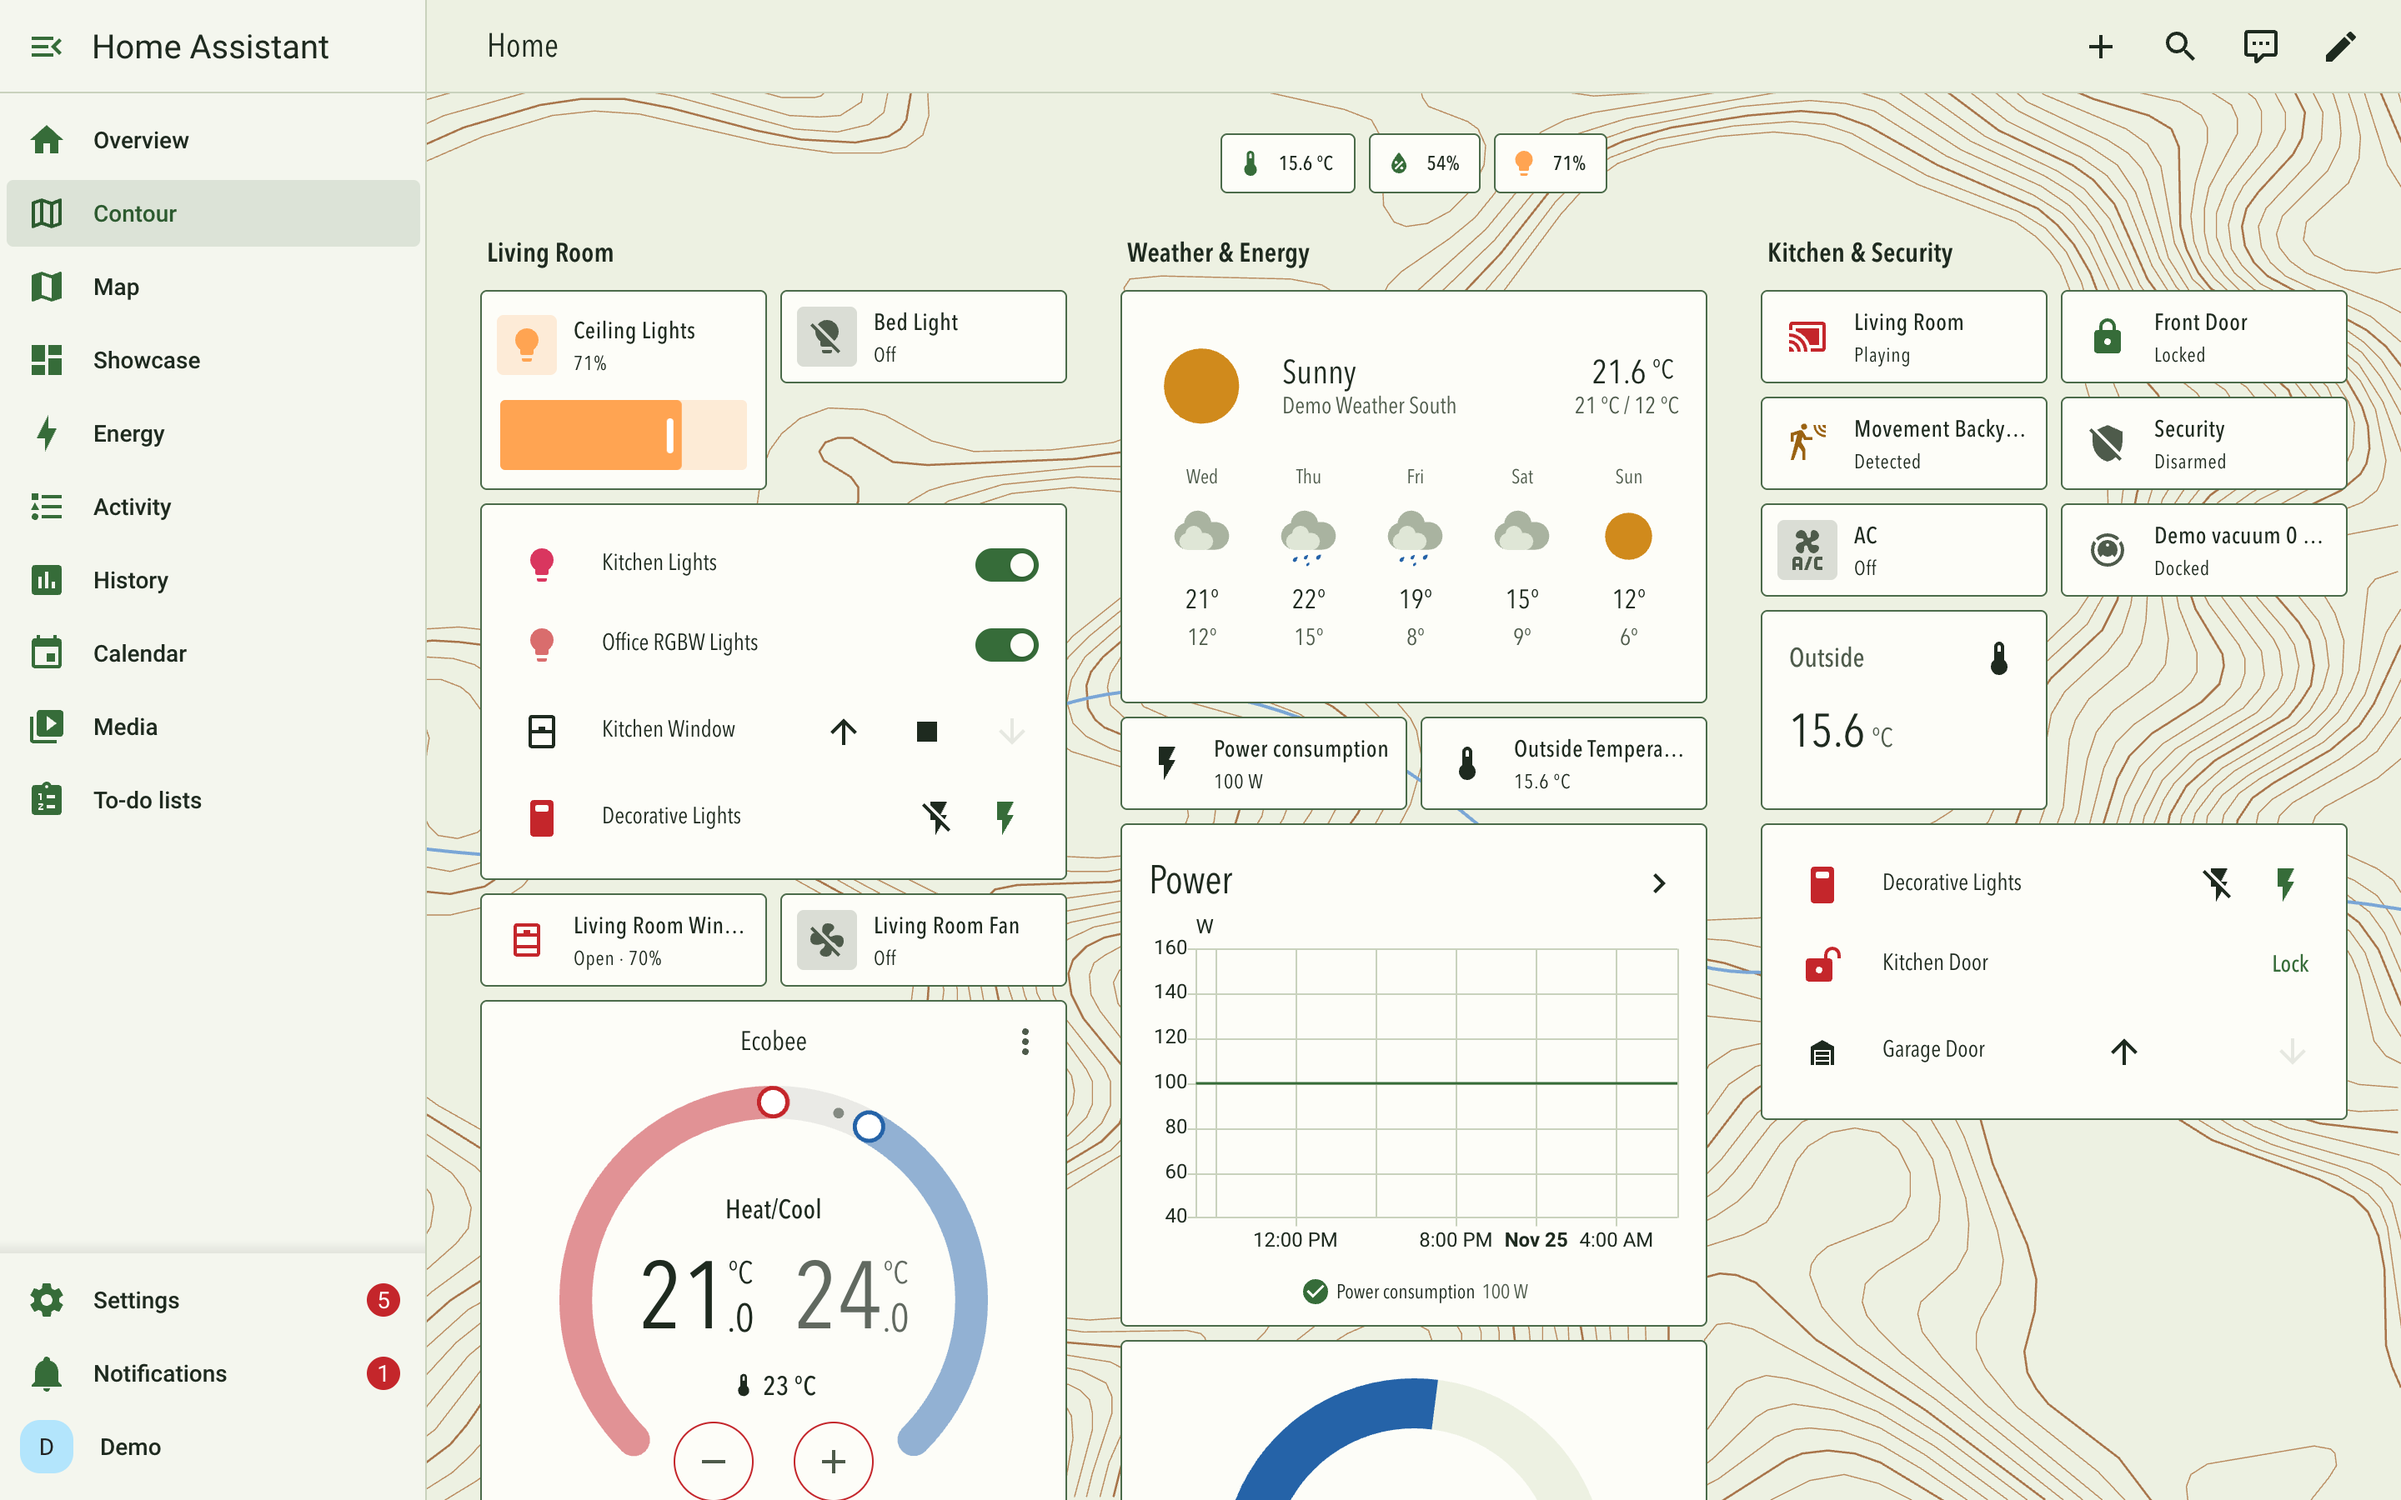
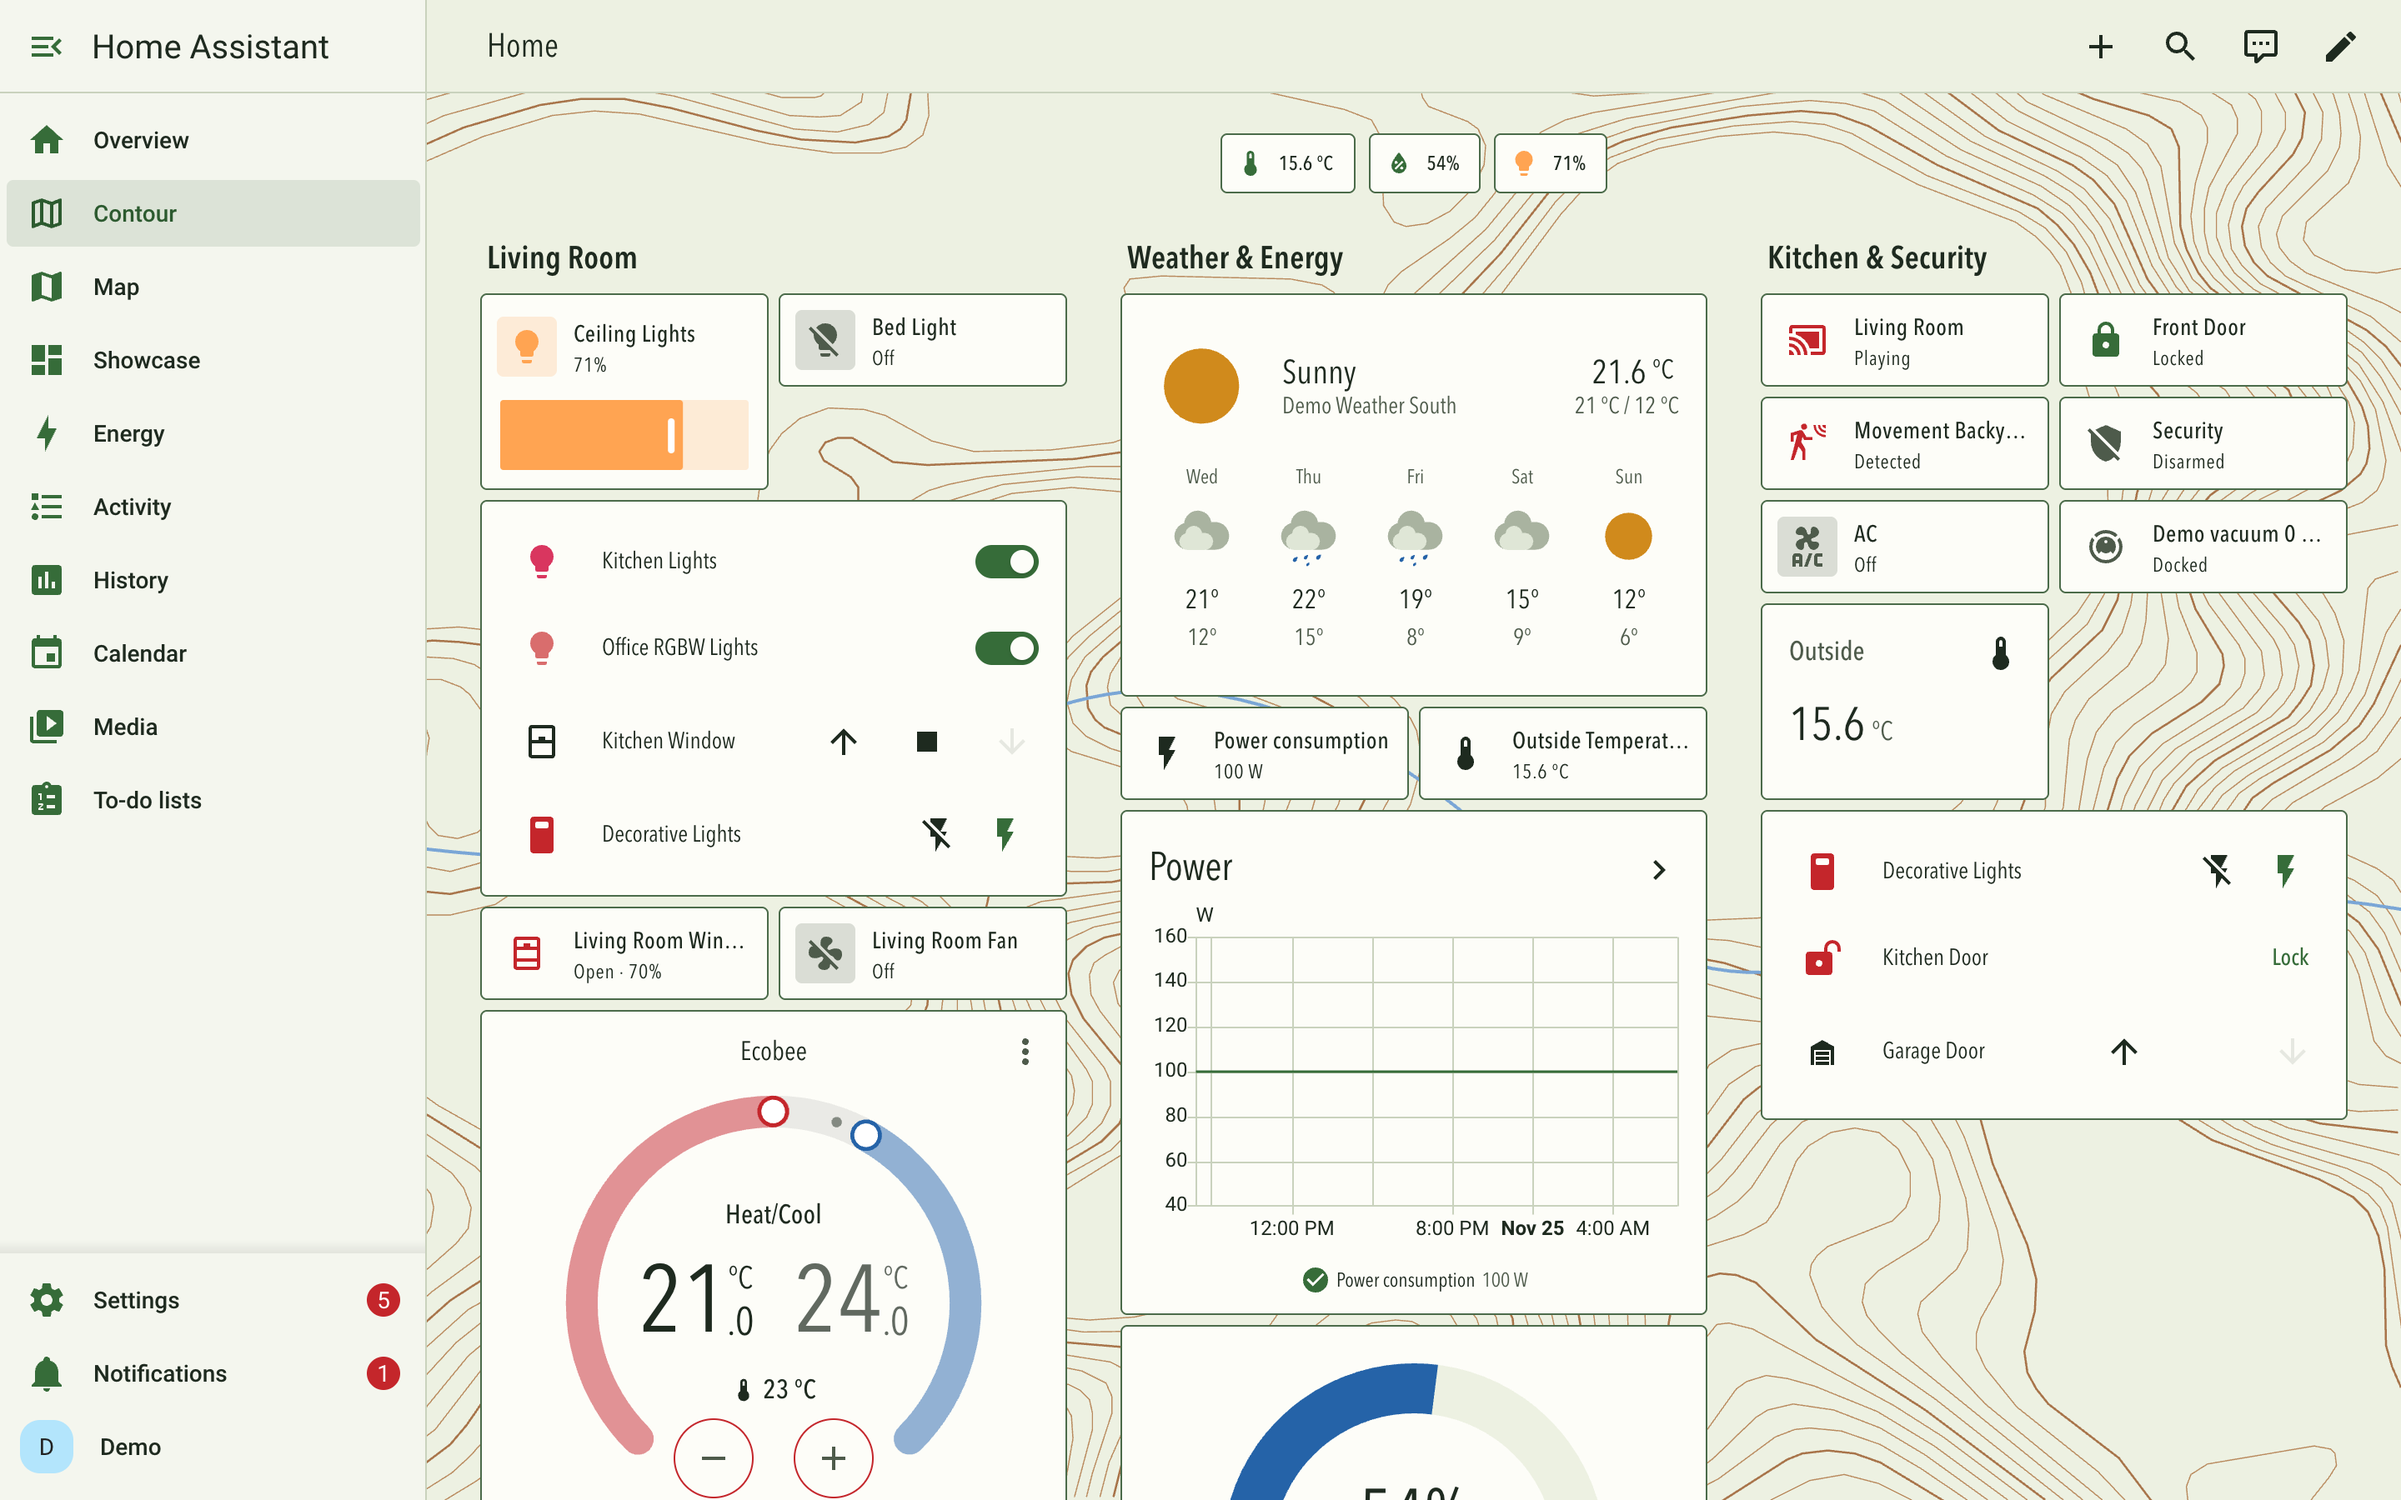
Map density, square sliders, printed thermostat track, more state colours, own card-mod rules

diff --git a/README.md b/README.md
@@ -18,13 +18,15 @@ A theme for Home Assistant in the style of a printed hiking map. Fine brown cont
 - **Contour background.** The relief behind your dashboards is an SVG embedded in the theme (about 20 KB per mode). Nothing is downloaded, and the lines are quiet enough that section titles on top of them stay readable.
 - **Map sheets.** Cards are white (dark: deep green) sheets with a thin forest-green rim, square corners and no shadow, because print is flat.
 - **Five map inks, nothing else.** Forest green for buttons, links, switches, selection and the keyboard focus; contour brown for charts; water blue for sliders, gauges and information; road red for active devices and errors; ink for text. Every other colour the frontend asks for (purple, pink, yellow and so on) is mapped onto one of these inks. All text pairs meet WCAG 4.5:1 and all controls 3:1, in both modes.
-- **Road red means active.** Lights, switches, fans, media players, open covers and heating show their icon in road red, like a marked point on the map.
+- **Road red means active.** Lights, switches, fans, media players, open covers, detected motion and heating show their icon in road red, like a marked point on the map. Locks, alarms that are armed and people at home are forest green, anything pending is ochre.
+- **Map density.** Sheets lie close together (6 px apart), section titles are set larger like the title of a map sheet, rows of entities cards get more air.
+- **Square controls.** Tile sliders and buttons have square corners like a map scale bar; the thermostat track is printed in the rule colour at full strength instead of a faint tint.
 - **A narrow map face from your system.** Avenir Next Condensed on Apple devices, Bahnschrift on Windows, the condensed system sans on Android, narrow DejaVu or Liberation cuts on Linux. Nothing is downloaded.
-- **Optional extras with card-mod:** a small red map pin on tiles of devices that are on, coloured lights and their badges in road red instead of the bulb colour, dashed rules between the rows of entities cards, letter-spaced capitals for section titles, card titles and the sidebar, the map face in the sidebar, a framed selection there like a legend entry, and a clear focus ring on badges.
+- **Optional extras with card-mod:** a small red map pin and a red state line ("On", "Playing", "Open") on tiles of devices that are active, like a marked point with its label; coloured light tiles in road red instead of the bulb colour; lower tile sliders like a scale bar; dashed trail lines between the rows of entities cards; letter-spaced capitals for section titles, card titles, badges and the sidebar; the map face in the sidebar, a framed selection there like a legend entry, and a clear focus ring on badges.
 
-Without card-mod the theme still works: background, sheets, inks, red active icons, switches and focus stay the same. There is no map pin, coloured lights keep their own colour, entities cards have no rules between rows, titles stay in mixed case, and the sidebar keeps the default font of the frontend.
+Without card-mod the theme still works: background, sheets, inks, red active icons, switches and focus stay the same. There is no map pin and no red state line, coloured lights keep their own colour, tile sliders keep the default height, entities cards have no lines between rows, titles stay in mixed case, and the sidebar keeps the default font of the frontend.
 
-![Without card-mod: same map and sheets, no pins, no dashed rules, mixed-case titles](https://raw.githubusercontent.com/wsclx/contour-theme/main/images/dashboard-light-desktop-no-cardmod.png)
+![Without card-mod: same map and sheets, no pins, no dashed lines, mixed-case titles](https://raw.githubusercontent.com/wsclx/contour-theme/main/images/dashboard-light-desktop-no-cardmod.png)
 
 | Settings, light | Settings, dark |
 |---|---|
@@ -72,7 +74,7 @@ frontend:
 
 Adjust the path to where card-mod is installed on your system.
 
-Sections dashboards with **tile cards** show the map pins; **entities cards** read like a legend with dashed rules between the rows.
+Sections dashboards with **tile cards** show the map pins; **entities cards** read like a legend with dashed trail lines between the rows.
 
 ## Customise
 
@@ -94,8 +96,8 @@ Change the variables below in a copy of the theme, or override them with card-mo
 - Grid squares (A1, B1 …) in the corner of each section, as on a printed map, are not part of the theme: a theme cannot tell in which column a card sits. Write them into your section headings if you like the look.
 - The contour lines behind the cards cannot follow your data; the small contour charts inside cards that a map-style mockup might show are not possible with a theme. Charts use the map inks.
 - Icons stay Material Design Icons; a theme cannot swap icon sets. Weather icons are drawn by the frontend; the theme sets their colours (ochre sun, water-blue rain, pale clouds).
-- Without card-mod, coloured lights keep their own colour on tiles and badges, the sidebar keeps the default font of the frontend, and keyboard focus on a badge with a green icon shows only as a slightly thicker rim.
-- The thermostat ring and the size of switches are drawn by the frontend; the theme only sets their colours.
+- Coloured lights keep their own colour in badges and in the light dialog. Without card-mod they also keep it on tiles, the sidebar keeps the default font of the frontend, and keyboard focus on a badge with a green icon shows only as a slightly thicker rim.
+- The thermostat ring, the size of switches and the height of tile sliders are set by the frontend; the theme sets colours and corners (card-mod lowers the sliders). A frame around sliders is not possible.
 - The narrow font depends on your device. Where none of the narrow faces is installed, the system UI font is used.
 - On iOS and iPadOS the background scrolls with the page instead of staying fixed (Safari ignores fixed backgrounds there).
 - Home Assistant does not guarantee theme variables between releases. If something looks off after an update, please open an issue with your version.

diff --git a/CHANGELOG.md b/CHANGELOG.md
@@ -11,5 +11,6 @@ The format follows [Keep a Changelog](https://keepachangelog.com/en/1.1.0/), ver
 - First release: one theme with light mode (day map) and dark mode (night map).
 - Contour background as an embedded SVG, white map sheets with a thin forest-green rim, no shadows. Works without add-ons.
 - Five map inks only (forest green, contour brown, water blue, road red, ink); every palette colour of the frontend is mapped onto them. Text 4.5:1 and controls 3:1 in both modes.
-- Road red for active devices, forest-green switches, selection and keyboard focus, narrow system fonts.
-- Optional card-mod rules: red map pins on active device tiles, coloured lights and badges in road red, dashed rules between rows of entities cards, letter-spaced capitals for titles and the sidebar, map font and framed selection in the sidebar, focus ring on badges.
+- Road red for active devices, forest green for locked, armed and at home, ochre for pending; forest-green switches, selection and keyboard focus, narrow system fonts.
+- Map density: sheets 6 px apart, larger section titles, square tile sliders and buttons, a printed thermostat track.
+- Optional card-mod rules: red map pin and red state line on active device tiles, coloured light tiles in road red, lower tile sliders, dashed trail lines between rows of entities cards, letter-spaced capitals for titles, badges and the sidebar, map font and framed selection in the sidebar, focus ring on badges.
